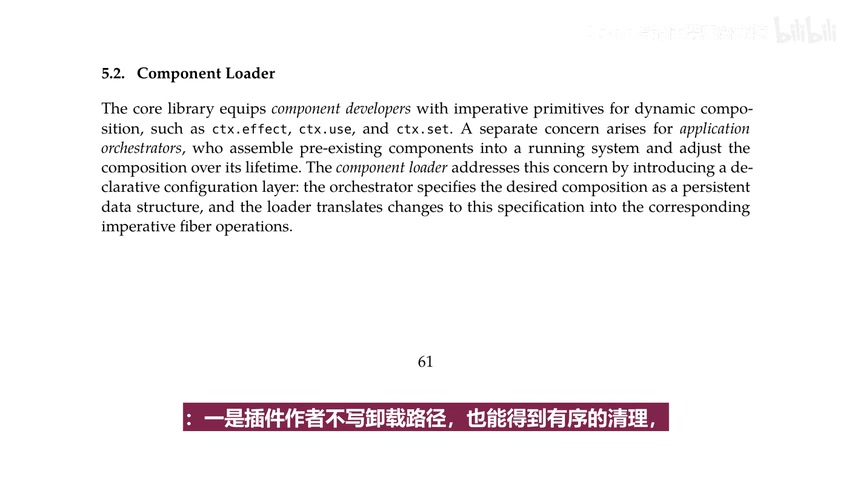
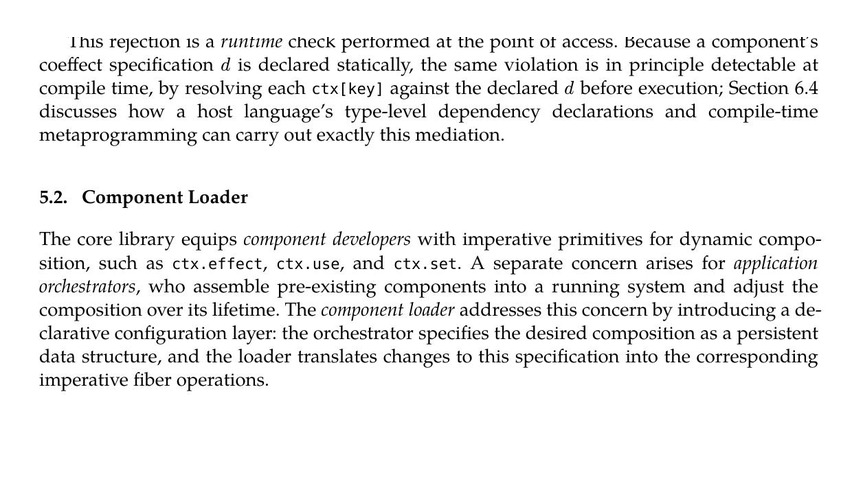
Publish DeepSeek Harness Cordis article

Changed region(s): [[0.0305, 0.0625, 0.9765, 0.9062]]

diff --git a/tasks/publish-deepseek-harness-cordis-article-20260816.py b/tasks/publish-deepseek-harness-cordis-article-20260816.py
@@ -16,7 +16,7 @@ sys.dont_write_bytecode = True
 
 TASKS = Path(__file__).resolve().parent
 BASE_SCRIPT = TASKS / "publish-three-life-business-articles-20260809.py"
-ASSET_DIR = TASKS / "video-batch-20260816-bv1ug" / "screenshots"
+ASSET_DIR = TASKS / "video-batch-20260816-bv1ug" / "clean-screenshots-final"
 
 spec = importlib.util.spec_from_file_location("publish_base", BASE_SCRIPT)
 base = importlib.util.module_from_spec(spec)
@@ -169,9 +169,9 @@ base.POSTS = [
 
 SCREENSHOT_SOURCES = {
     SLUG: [
-        ("BV1ugby6jEKN_20.jpg", "paper-outline.jpg"),
-        ("BV1ugby6jEKN_510.jpg", "runtime-fiber-rules.jpg"),
-        ("BV1ugby6jEKN_790.jpg", "component-loader.jpg"),
+        ("paper-outline.jpg", "paper-outline.jpg"),
+        ("runtime-fiber-rules.jpg", "runtime-fiber-rules.jpg"),
+        ("component-loader.jpg", "component-loader.jpg"),
     ]
 }
 _base_validate = base.validate
@@ -342,6 +342,8 @@ def write_outputs(outputs: dict[str, str | None], binary_outputs: dict[str, byte
 
 
 def render_asset_check() -> None:
+    from PIL import Image
+
     out_dir = Path("/tmp/deepseek-harness-cordis-article-20260816-output")
     for post in base.POSTS:
         svg = out_dir / f"images/posts/{post.slug}/cover.svg"
@@ -355,6 +357,15 @@ def render_asset_check() -> None:
             chart_probe = subprocess.run(["sips", "-g", "pixelWidth", "-g", "pixelHeight", str(chart)], check=True, stdout=subprocess.PIPE, text=True).stdout
             if "pixelWidth: 852" not in chart_probe or "pixelHeight: 480" not in chart_probe:
                 raise RuntimeError(f"screenshot dimensions failed: {post.slug}/{dest}: {chart_probe}")
+            img = Image.open(chart).convert("RGB")
+            lower = img.crop((0, int(img.height * 0.55), img.width, img.height))
+            purple_pixels = sum(
+                1
+                for r, g, b in lower.getdata()
+                if r > 90 and b > 80 and g < 90 and r > g * 1.4 and b > g * 1.2
+            )
+            if purple_pixels > 100:
+                raise RuntimeError(f"subtitle-like purple overlay detected in {post.slug}/{dest}: {purple_pixels} pixels")
 
 
 def create_commit(outputs: dict[str, str | None], binary_outputs: dict[str, bytes], ref) -> str:
